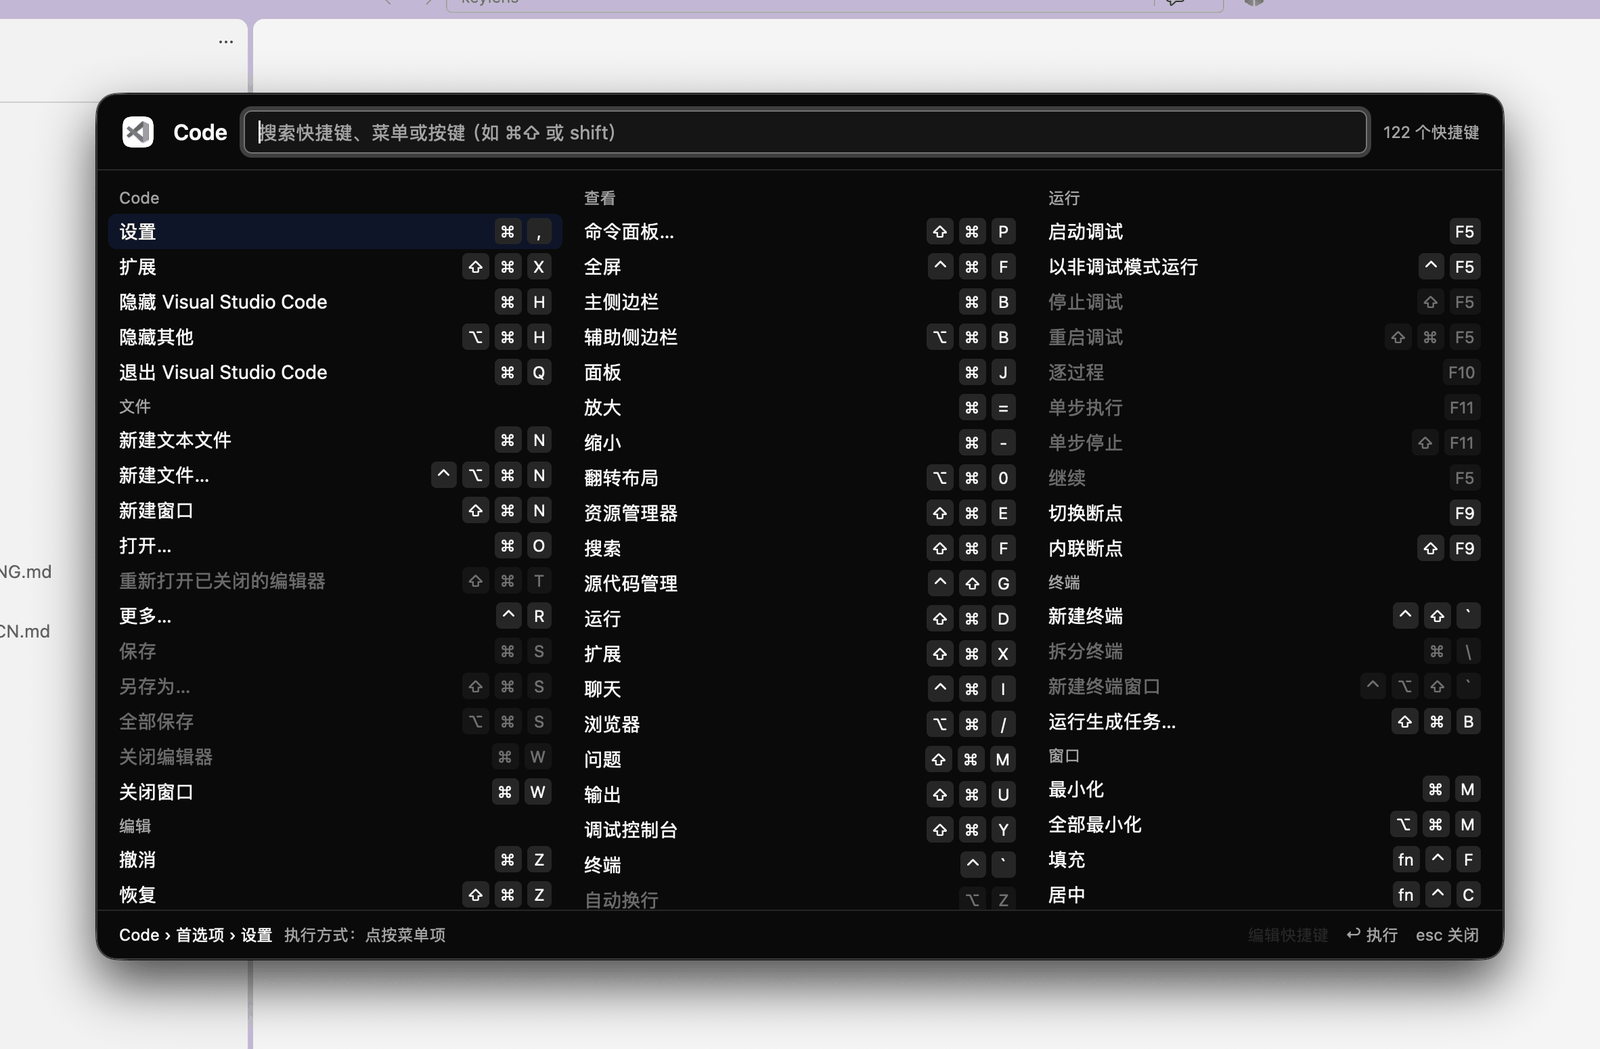
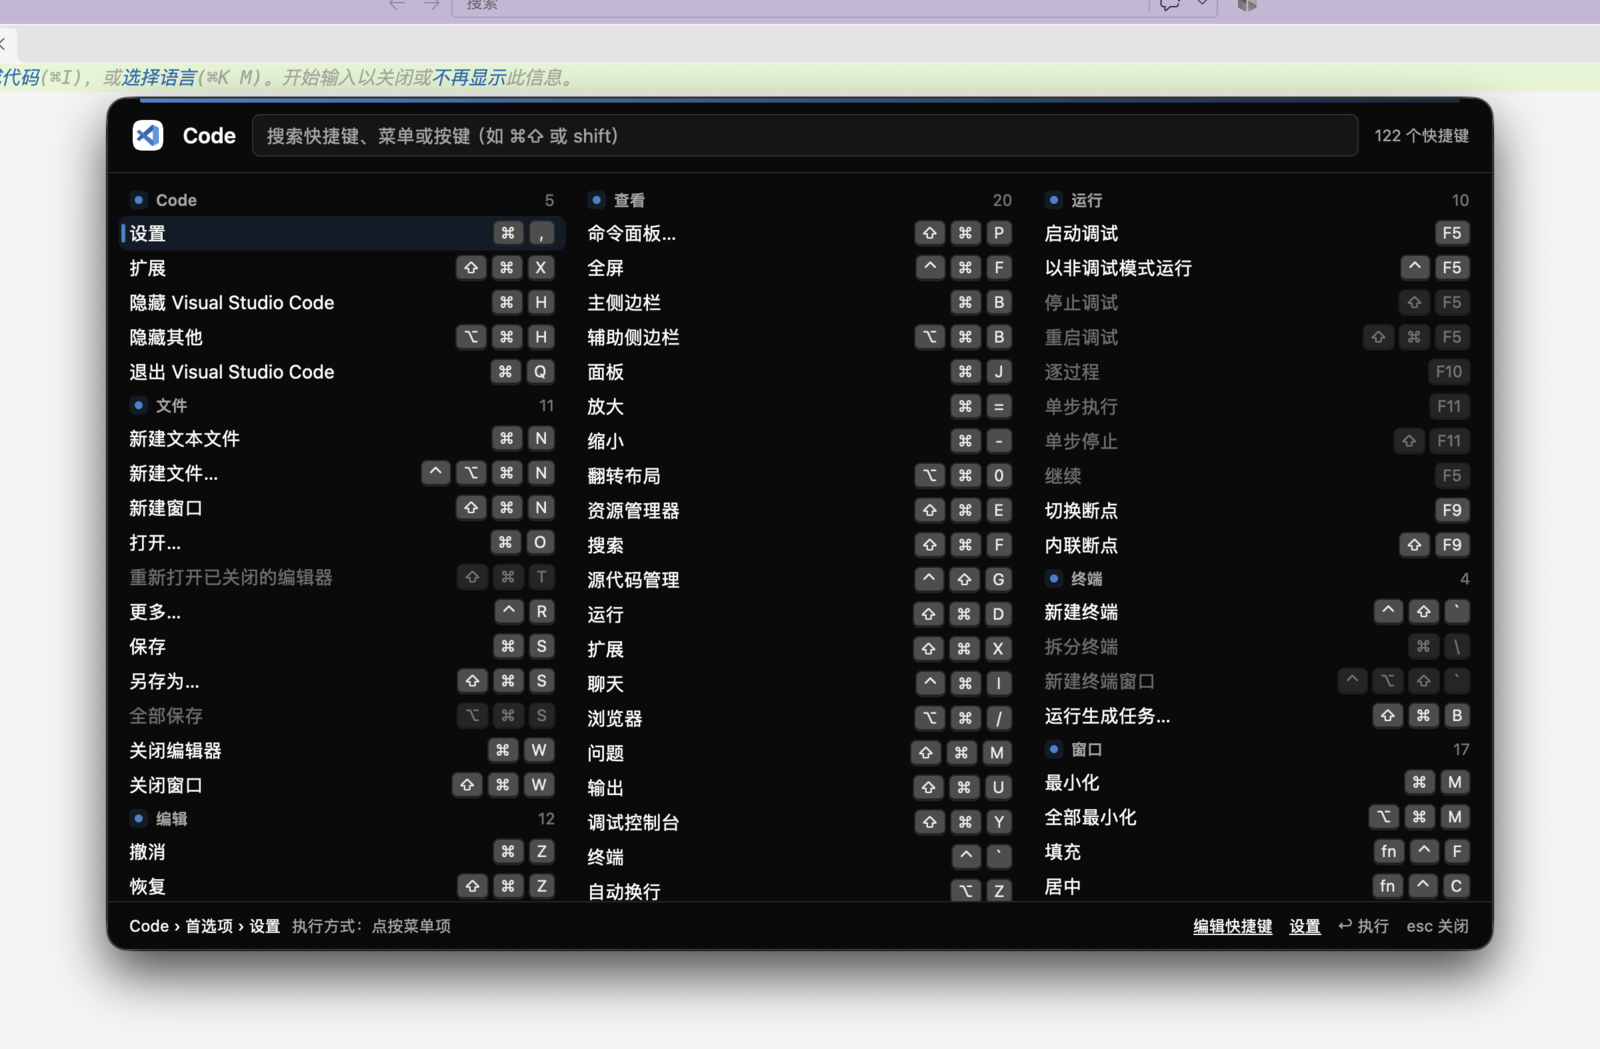
docs: README 介绍蓄力动画与应用主色，更新截图

Changed region(s): [[0.0, 0.061, 1.0, 0.9457], [0.0, 0.0, 1.0, 0.0305]]

diff --git a/README.md b/README.md
@@ -12,9 +12,9 @@ Long-press ⌘ to see every keyboard shortcut of the current app — search them
 
 ## A look around
 
-**Forgot a shortcut? Just hold ⌘.** The panel reads the menus of whatever app is in front, so there's nothing to set up per app — the picture above is Zed, and VS Code, Notion or Slack open just the same.
+**Forgot a shortcut? Just hold ⌘.** A small keycap fills up while you hold, then pops into the panel. The panel reads the menus of whatever app is in front, so there's nothing to set up per app — the picture above is Zed, and VS Code, Notion or Slack open just the same. Each app lends the panel its own colour, taken from its icon.
 
-**Type keys, not just words.** Searching `⌘⇧` lists everything bound to Command + Shift, in any order, alongside regular title matches. Press Return on a result and Keylens runs it for you.
+**Type keys, not just words.** Searching `⌘⇧` lists everything bound to Command + Shift, in any order, alongside regular title matches, and lights up the matching keycaps. Press Return on a result: its keycaps go down, and Keylens runs it for you.
 
 **Dark mode comes for free.** The panel follows the system appearance, so it fits in at night as well as it does during the day.
 
@@ -26,6 +26,8 @@ Long-press ⌘ to see every keyboard shortcut of the current app — search them
 ## Features
 
 - **Long-press ⌘** to open a panel listing all menu shortcuts of the frontmost app, grouped by menu in columns. The panel stays open after you release ⌘.
+- **Hold animation**: an anime-style ⌘ keycap fills with the app's colour while you hold. Quick shortcuts such as ⌘C never show it, and it is skipped when Reduce Motion is on.
+- **The app's colour**: the panel picks up the accent of the frontmost app's icon, and shortcuts are drawn as keycaps.
 - **Search** by title, menu path or keys. `⌘⇧`, `shift` and `cmd+shift+p` all work, regardless of modifier order.
 - **Run directly**: click to select, double-click or press Return to run. Menu items are pressed via Accessibility; community shortcuts are sent as synthesized key strokes.
 - **Community shortcut data** fills in shortcuts that menus don't expose (e.g. VS Code, Chrome, Slack), marked with ◇.

diff --git a/README.zh-CN.md b/README.zh-CN.md
@@ -12,9 +12,9 @@
 
 ## 看一眼
 
-**想不起快捷键？按住 ⌘ 就行。** 浮层直接读取前台应用的菜单，不需要为每个应用单独配置。上图是 VS Code，换成 Zed、Notion、Slack 也是同样的用法。
+**想不起快捷键？按住 ⌘ 就行。** 按住时会有一颗小键帽慢慢蓄满，满了就弹出浮层。浮层直接读取前台应用的菜单，不需要为每个应用单独配置。上图是 VS Code，换成 Zed、Notion、Slack 也是同样的用法。每个应用都会让浮层换上它图标的颜色。
 
-**用字搜，也能用键搜。** 输入「行」能找到所有和行相关的操作；输入 `⌘⇧` 则列出所有用到 Command + Shift 的快捷键，不用管修饰键的顺序。选中后按回车，Keylens 会替你执行。
+**用字搜，也能用键搜。** 输入「行」能找到所有和行相关的操作；输入 `⌘⇧` 则列出所有用到 Command + Shift 的快捷键，不用管修饰键的顺序，对应的键帽会亮起来。选中后按回车，键帽依次按下，Keylens 替你执行。
 
 **深色模式不用管。** 浮层跟随系统外观，白天晚上看着都顺眼。
 
@@ -26,6 +26,8 @@
 ## 功能
 
 - **长按 ⌘ 呼出**：浮层显示前台应用的全部菜单快捷键，按菜单分列；松开 ⌘ 后浮层保持显示。
+- **蓄力动画**：按住时一颗动漫风的 ⌘ 键帽被应用的颜色灌满。⌘C 这类一按就松的快捷键不会触发；系统开启「减弱动态效果」时不显示。
+- **应用的颜色**：浮层取前台应用图标的主色，快捷键以键帽样式显示。
 - **搜索**：按标题、菜单路径或按键搜索，支持 `⌘⇧`、`shift`、`cmd+shift+p` 等写法，不区分修饰键顺序。
 - **直接执行**：单击选中，双击或回车执行。菜单项直接点按，社区数据里的快捷键通过模拟按键执行。
 - **社区快捷键数据**：补充菜单里读不到的快捷键（例如 VS Code、Chrome、Slack），用 ◇ 标记。
